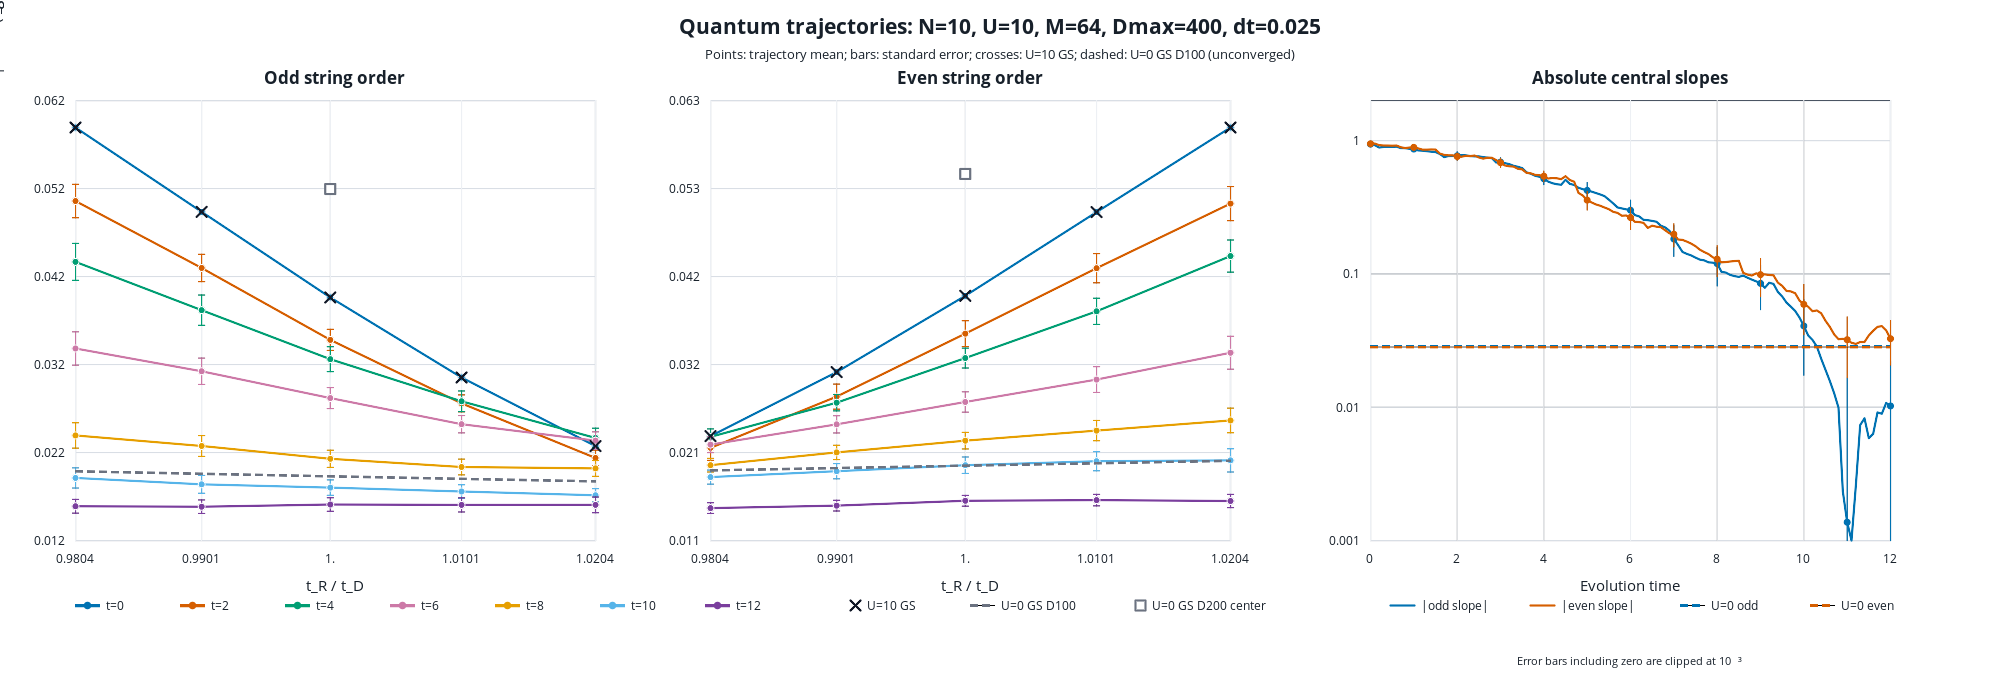
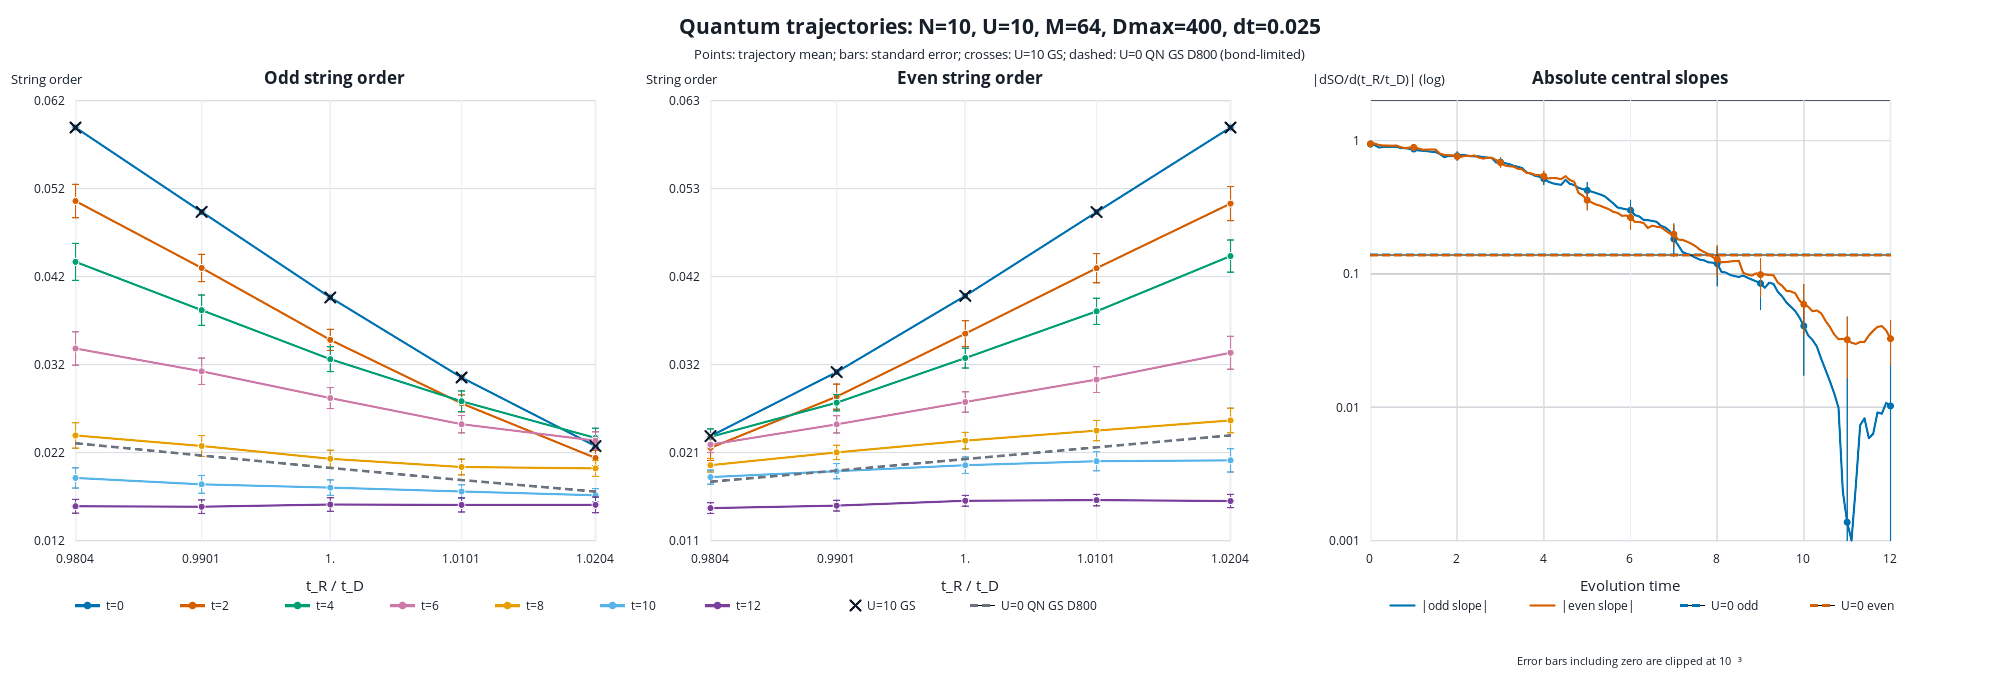
Recompute U0 QN reference and refresh D400 report

diff --git a/plot_trajectory_results.py b/plot_trajectory_results.py
@@ -7,10 +7,11 @@ import sys
 from pathlib import Path
 
 
-if len(sys.argv) != 3:
-    raise SystemExit("usage: python3 plot_trajectory_results.py INPUT.csv OUTPUT.svg")
+if len(sys.argv) not in (3, 4):
+    raise SystemExit("usage: python3 plot_trajectory_results.py INPUT.csv OUTPUT.svg [U0_GS.csv]")
 
-input_path, output_path = sys.argv[1:]
+input_path, output_path = sys.argv[1:3]
+u0_reference_path = sys.argv[3] if len(sys.argv) == 4 else None
 with open(input_path, newline="", encoding="utf-8") as handle:
     rows = list(csv.DictReader(handle))
 slope_path = Path(input_path).with_name(Path(input_path).stem + "_slopes.csv")
@@ -50,7 +51,8 @@ for row in initial_rows:
     benchmark["even"][tD] = float(row["even_mean"])
 initial_max_bond = max(int(float(row["max_bond_dimension"])) for row in initial_rows)
 
-# Existing N=10, Dmax=100 DMRG checkpoints (bond-unconverged); no matching U=1 data exists.
+# Historical N=10, Dmax=100 DMRG checkpoints (bond-unconverged). An optional
+# verified CSV replaces them for the current figure without changing old plots.
 u0_benchmark = {
     "odd": {0.98: 0.019105032165657555, 0.99: 0.019391160426581115, 1.0: 0.019679175437066633,
             1.01: 0.01996615795171945, 1.02: 0.02025063167811967},
@@ -58,6 +60,23 @@ u0_benchmark = {
              1.01: 0.019572602503736065, 1.02: 0.019289489602627254},
 }
 u0_d200_center = {"odd": 0.05233055680636908, "even": 0.05438395563875983}
+u0_label = "U=0 GS D100 (unconverged)"
+if u0_reference_path:
+    with open(u0_reference_path, newline="", encoding="utf-8") as handle:
+        reference_rows = list(csv.DictReader(handle))
+    reference_tds = {float(row["tD"]) for row in reference_rows}
+    if len(reference_rows) != len(ratios) or reference_tds != {float(row["tD"]) for row in initial_rows}:
+        raise SystemExit("U=0 ground-state reference does not match the trajectory tD grid")
+    u0_benchmark = {
+        parity: {float(row["tD"]): float(row[parity]) for row in reference_rows}
+        for parity in ("odd", "even")
+    }
+    if any(not math.isfinite(value) for values in u0_benchmark.values() for value in values.values()):
+        raise SystemExit("U=0 ground-state reference contains non-finite SO")
+    u0_dmax = {int(row["Dmax"]) for row in reference_rows}
+    if len(u0_dmax) != 1 or any(row["hasqns"].lower() != "true" for row in reference_rows):
+        raise SystemExit("U=0 reference must have one QN-conserving Dmax")
+    u0_label = f"U=0 QN GS D{u0_dmax.pop()} (bond-limited)"
 u0_slopes = {
     parity: abs((values[0.99] - values[1.01]) / (1 / 0.99 - 1 / 1.01))
     for parity, values in u0_benchmark.items()
@@ -79,10 +98,9 @@ panel_top = 100
 colors = ("#0072B2", "#D55E00", "#009E73", "#CC79A7", "#E69F00", "#56B4E9", "#7A3E9D")
 
 
-def svg_text(x, y, value, *, size=14, anchor="middle", weight="normal", rotate=None):
-    transform = f' transform="rotate({rotate} {x} {y})"' if rotate is not None else ""
+def svg_text(x, y, value, *, size=14, anchor="middle", weight="normal"):
     return (f'<text x="{x:.2f}" y="{y:.2f}" text-anchor="{anchor}" font-size="{size}" '
-            f'font-weight="{weight}" fill="#17202a"{transform}>{value}</text>')
+            f'font-weight="{weight}" fill="#17202a">{value}</text>')
 
 
 dt = float(rows[0].get("dt", 0.05))
@@ -90,7 +108,7 @@ parts = [
     f'<svg xmlns="http://www.w3.org/2000/svg" width="{width}" height="{height}" viewBox="0 0 {width} {height}">',
     '<rect width="100%" height="100%" fill="#ffffff"/>',
     svg_text(width / 2, 34, f"Quantum trajectories: N=10, U=10, M={sample_count}, Dmax={initial_max_bond}, dt={dt:g}", size=21, weight="bold"),
-    svg_text(width / 2, 59, "Points: trajectory mean; bars: standard error; crosses: U=10 GS; dashed: U=0 GS D100 (unconverged)", size=13),
+    svg_text(width / 2, 59, f"Points: trajectory mean; bars: standard error; crosses: U=10 GS; dashed: {u0_label}", size=13),
 ]
 
 x_min, x_max = min(ratios), max(ratios)
@@ -105,7 +123,8 @@ for panel_index, parity in enumerate(("odd", "even")):
         y_values.extend((mean - error, mean + error))
     y_values.extend(benchmark[parity].values())
     y_values.extend(u0_benchmark[parity].values())
-    y_values.append(u0_d200_center[parity])
+    if not u0_reference_path:
+        y_values.append(u0_d200_center[parity])
     y_min, y_max = min(y_values), max(y_values)
     padding = 0.07 * (y_max - y_min)
     y_min -= padding
@@ -154,12 +173,13 @@ for panel_index, parity in enumerate(("odd", "even")):
         for tD, value in sorted(u0_benchmark[parity].items(), key=lambda item: 1 / item[0])
     )
     parts.append(f'<polyline points="{u0_points}" fill="none" stroke="#6b7280" stroke-width="2" stroke-dasharray="7 5"/>')
-    d200_x, d200_y = sx(1.0), sy(u0_d200_center[parity])
-    parts.append(f'<rect x="{d200_x-5:.2f}" y="{d200_y-5:.2f}" width="10" height="10" fill="#ffffff" stroke="#6b7280" stroke-width="2"/>')
+    if not u0_reference_path:
+        d200_x, d200_y = sx(1.0), sy(u0_d200_center[parity])
+        parts.append(f'<rect x="{d200_x-5:.2f}" y="{d200_y-5:.2f}" width="10" height="10" fill="#ffffff" stroke="#6b7280" stroke-width="2"/>')
 
     parts.append(svg_text((left + right) / 2, panel_top - 16, f"{parity.capitalize()} string order", size=17, weight="bold"))
     parts.append(svg_text((left + right) / 2, bottom + 51, "t_R / t_D", size=15))
-    parts.append(svg_text(left - 64, (panel_top + bottom) / 2, "String order", size=15, rotate=-90))
+    parts.append(svg_text(left - 64, panel_top - 16, "String order", size=13, anchor="start"))
 
 # Central finite-difference slopes versus time. A logarithmic axis makes the
 # two-order-of-magnitude relaxation visible; error bars that include zero are
@@ -195,7 +215,7 @@ for parity in ("odd", "even"):
         error = float(row[f"{parity}_slope_stderr"])
         x, y = sx(time), sy(value)
         points.append((x, y))
-        if math.isclose(time, round(time), abs_tol=1e-10):
+        if error > 1e-12 and math.isclose(time, round(time), abs_tol=1e-10):
             y_low = sy(max(value - error, slope_y_min))
             y_high = sy(min(value + error, slope_y_max))
             parts.append(f'<line x1="{x:.2f}" x2="{x:.2f}" y1="{y_low:.2f}" y2="{y_high:.2f}" stroke="{slope_colors[parity]}" opacity="0.65"/>')
@@ -211,7 +231,7 @@ for parity in ("odd", "even"):
 
 parts.append(svg_text((left + right) / 2, panel_top - 16, "Absolute central slopes", size=17, weight="bold"))
 parts.append(svg_text((left + right) / 2, bottom + 51, "Evolution time", size=15))
-parts.append(svg_text(left - 58, (panel_top + bottom) / 2, "|dSO/d(t_R/t_D)| (log)", size=15, rotate=-90))
+parts.append(svg_text(left - 58, panel_top - 16, "|dSO/d(t_R/t_D)| (log)", size=13, anchor="start"))
 parts.append(svg_text((left + right) / 2, 665, "Error bars including zero are clipped at 10⁻³", size=11))
 
 legend_y = 605
@@ -224,9 +244,10 @@ for index, time in enumerate(selected_times):
 parts.append('<path d="M850,600 L860,610 M850,610 L860,600" stroke="#111827" stroke-width="2"/>')
 parts.append(svg_text(867, legend_y + 5, "U=10 GS", size=12, anchor="start"))
 parts.append(f'<line x1="970" x2="994" y1="{legend_y}" y2="{legend_y}" stroke="#6b7280" stroke-width="2" stroke-dasharray="7 5"/>')
-parts.append(svg_text(1001, legend_y + 5, "U=0 GS D100", size=12, anchor="start"))
-parts.append(f'<rect x="1135" y="600" width="10" height="10" fill="#ffffff" stroke="#6b7280" stroke-width="2"/>')
-parts.append(svg_text(1152, legend_y + 5, "U=0 GS D200 center", size=12, anchor="start"))
+parts.append(svg_text(1001, legend_y + 5, u0_label.split(" (")[0] if u0_reference_path else "U=0 GS D100", size=12, anchor="start"))
+if not u0_reference_path:
+    parts.append(f'<rect x="1135" y="600" width="10" height="10" fill="#ffffff" stroke="#6b7280" stroke-width="2"/>')
+    parts.append(svg_text(1152, legend_y + 5, "U=0 GS D200 center", size=12, anchor="start"))
 parts.append(f'<line x1="1390" x2="1414" y1="{legend_y}" y2="{legend_y}" stroke="{slope_colors["odd"]}" stroke-width="2"/>')
 parts.append(svg_text(1421, legend_y + 5, "|odd slope|", size=12, anchor="start"))
 parts.append(f'<line x1="1530" x2="1554" y1="{legend_y}" y2="{legend_y}" stroke="{slope_colors["even"]}" stroke-width="2"/>')
